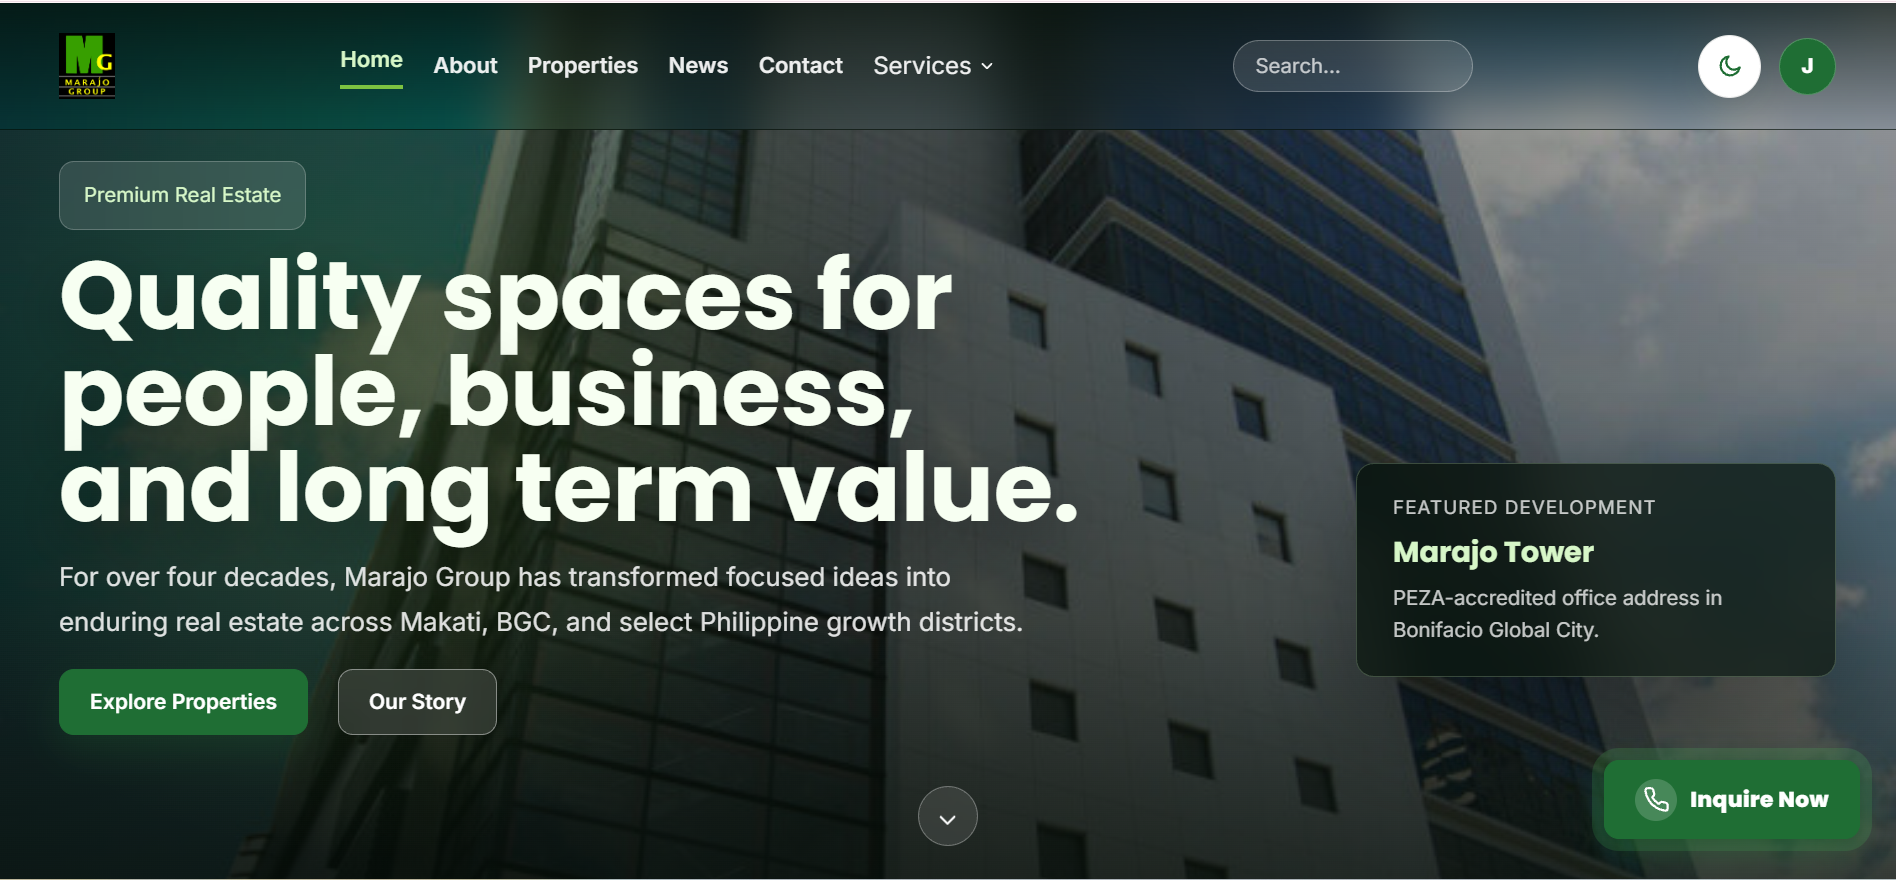
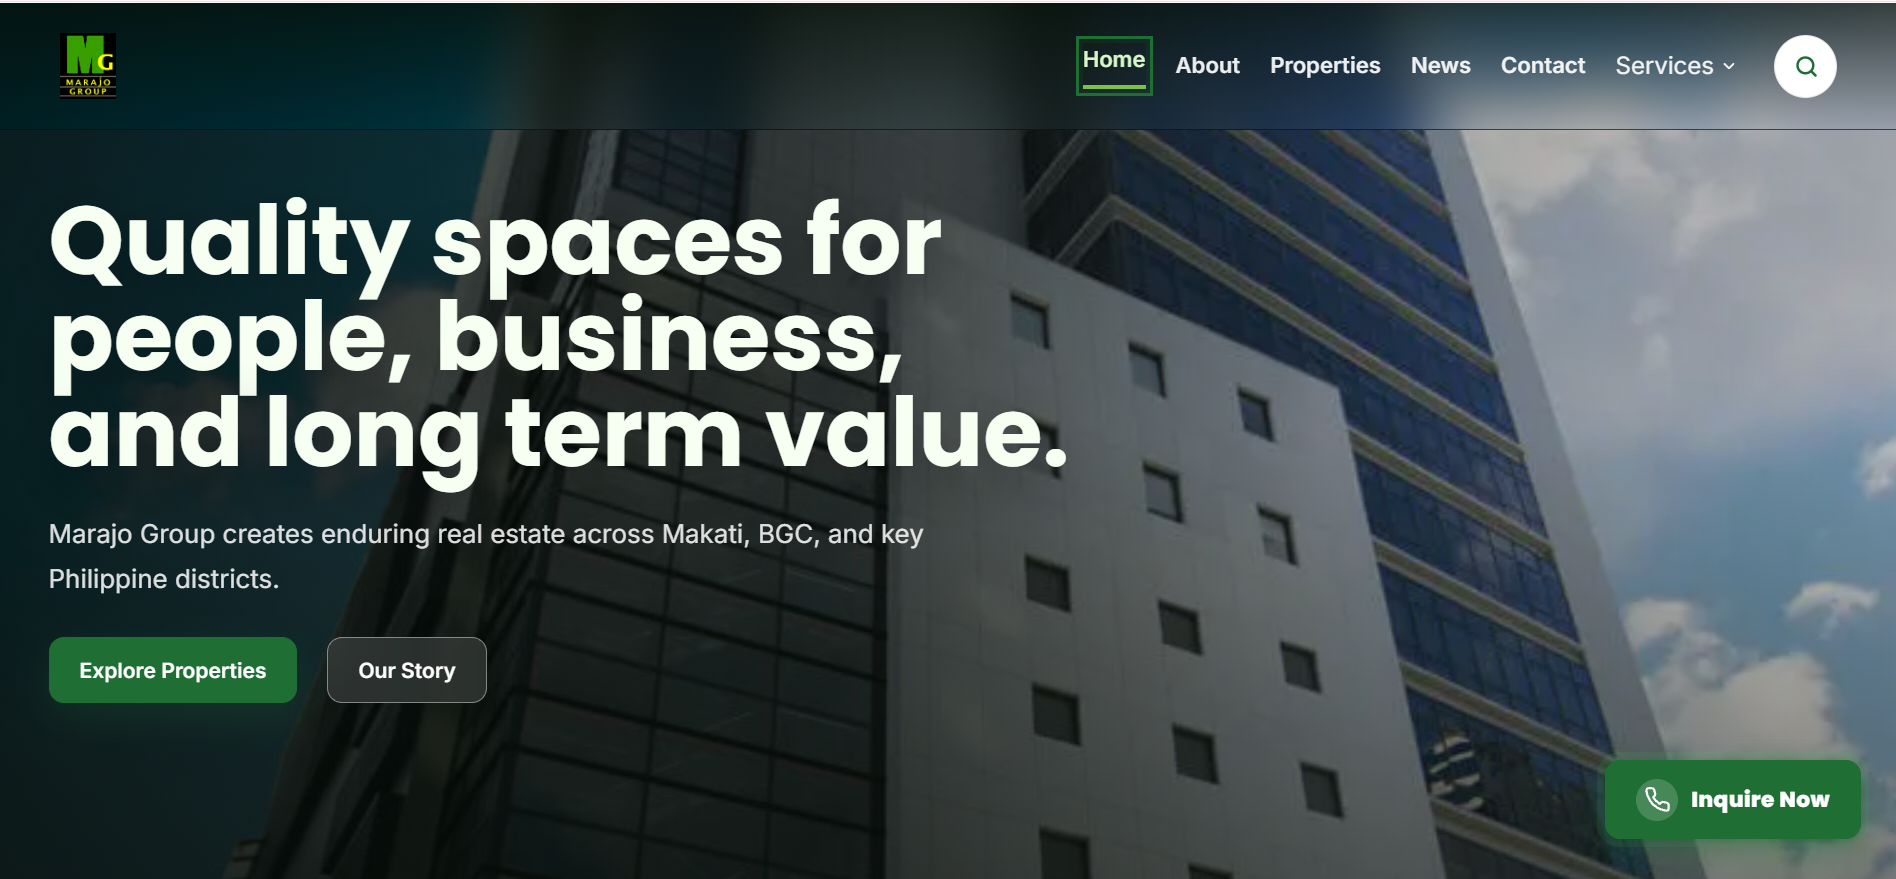
Make project cards preview only

diff --git a/app/page.tsx b/app/page.tsx
@@ -1,6 +1,6 @@
 import { Fragment } from "react";
 import Image from "next/image";
-import { ArrowUpRight, BadgeCheck, Github, Linkedin, Mail } from "lucide-react";
+import { BadgeCheck, Github, Linkedin, Mail } from "lucide-react";
 import { AskPalette } from "@/components/AskPalette";
 import { BeyondCodeSlider } from "@/components/BeyondCodeSlider";
 import { GitHubContributions } from "@/components/GitHubContributions";
@@ -272,15 +272,9 @@ function ProjectCard({ project }: { project: (typeof projects)[number] }) {
             <p className="text-sm font-medium text-moss">{project.status}</p>
             <h3 className="mt-1 text-xl font-semibold text-ink dark:text-paper">{project.name}</h3>
           </div>
-          {project.href ? (
-            <a className="focus-ring min-h-11 min-w-11 rounded-full border border-line p-2 hover:border-moss dark:border-moss dark:text-paper" href={project.href} aria-label={`Open ${project.name}`}>
-              <ArrowUpRight className="h-4 w-4" />
-            </a>
-          ) : (
-            <span className="rounded-full border border-line px-3 py-1 text-xs font-medium text-steel dark:border-moss dark:text-paper" aria-label={`${project.name} is private and not deployed`}>
-              Private
-            </span>
-          )}
+          <span className="rounded-full border border-line px-3 py-1 text-xs font-medium text-steel dark:border-moss dark:text-paper">
+            Preview
+          </span>
         </div>
         <p className="leading-7 text-steel dark:text-paper">{project.description}</p>
         <div className="flex flex-wrap gap-2">

diff --git a/data/portfolio.ts b/data/portfolio.ts
@@ -15,27 +15,27 @@ export const projects = [
     description:
       "Real estate company website migrated from PHP/MySQL/XAMPP to Next.js, Supabase, and Vercel, with listings, booking flows, an admin dashboard, and third-party integrations.",
     stack: ["Next.js", "Supabase", "Tailwind CSS", "Vercel"],
-    href: "https://marajogroup.vercel.app",
+    href: "",
     image: "/projects/marajo-group-preview.png",
-    status: "Live Site"
+    status: "Preview Only"
   },
   {
     name: "PharSayo",
     description:
       "Medication management PWA for barangay health units with role-based access, AI-assisted medication scanning, adherence tracking, and dashboards.",
     stack: ["PWA", "React", "AI", "Healthcare"],
-    href: "https://pharsayo.netlify.app",
+    href: "",
     image: "/projects/pharsayo-preview.png",
-    status: "Live Site"
+    status: "Preview Only"
   },
   {
     name: "Suri.AI",
     description:
       "AI-powered fact-checking platform built for the InterCICSkwela hackathon. Users submit a news article or claim, then Suri.AI cross-checks it with reliable sources and surfaces connected articles based on the result, showing credible sources for legitimate claims or related debunked misinformation for false or misleading ones.",
     stack: ["Next.js", "TypeScript", "Node.js", "Express", "Anthropic API", "Tailwind CSS"],
-    href: "#",
+    href: "",
     image: "/projects/suri-ai-preview.png",
-    status: "Hackathon Project"
+    status: "Hackathon Preview"
   },
   {
     name: "Queen of Angels (QUACC)",
@@ -51,7 +51,7 @@ export const projects = [
     description:
       "A collection of layout, poster, and branding samples that shows visual design range alongside software development work.",
     stack: ["Graphic Design", "Layout", "Branding"],
-    href: "#design",
+    href: "",
     image: "/projects/design-work.svg",
     status: "Gallery"
   }